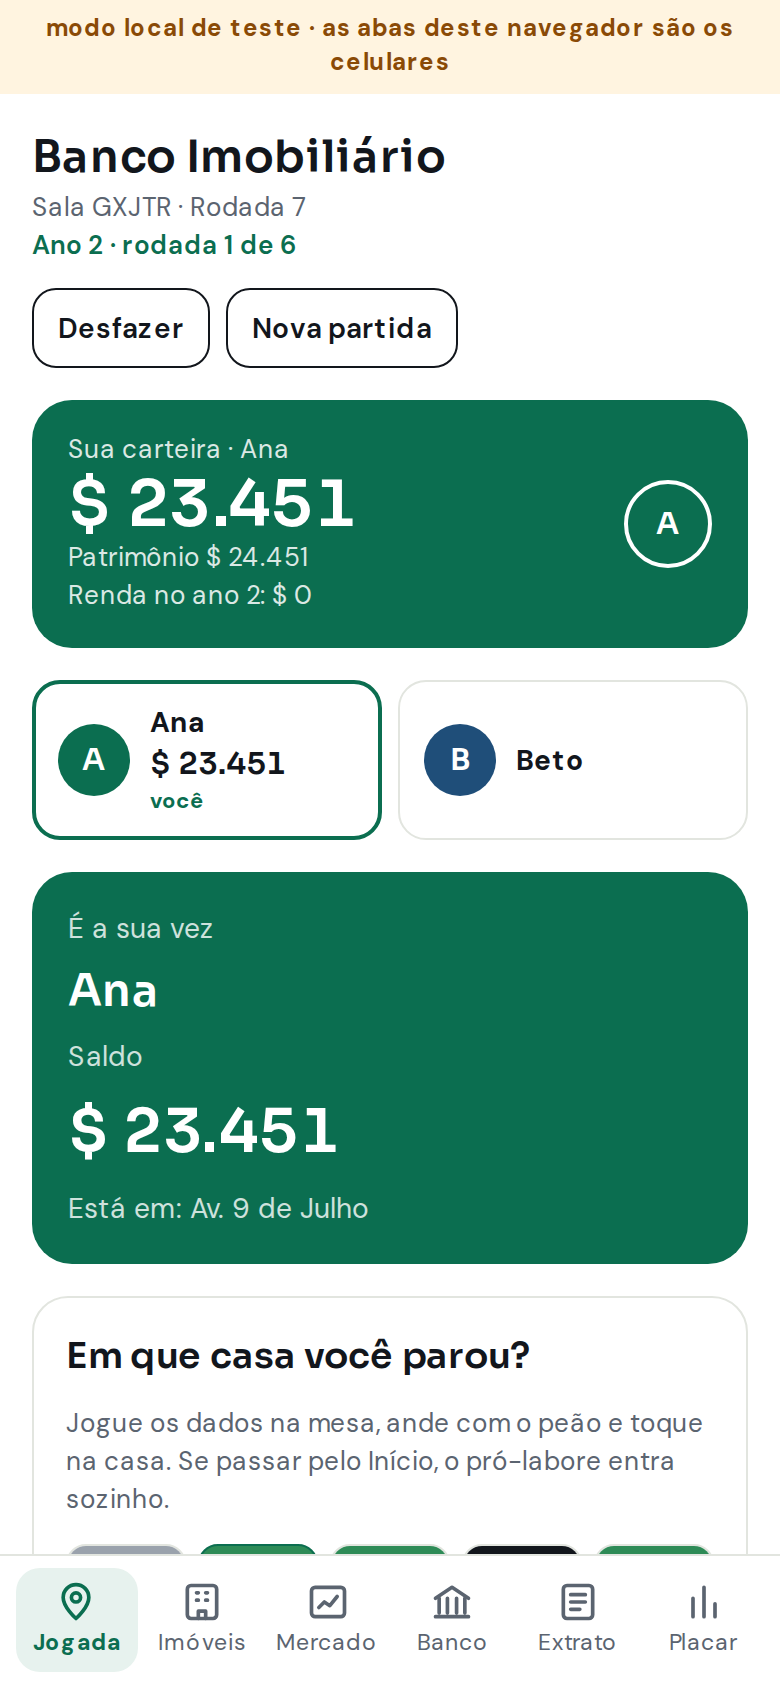
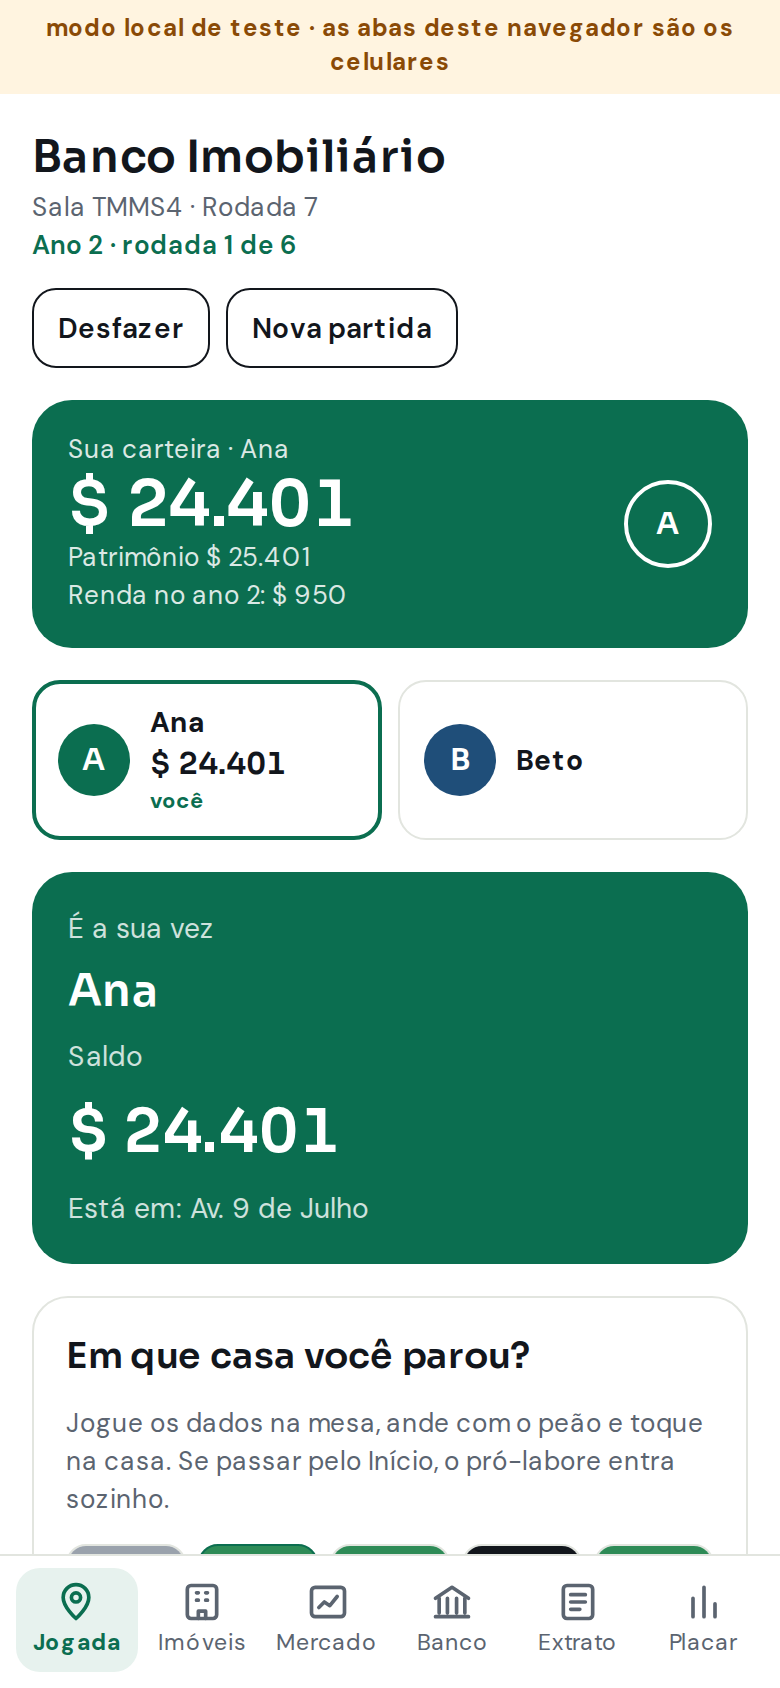
Declaração do IR sem saldo: levantar dinheiro e voltar
- Sem saldo para o IR (ou para imposto + multa da malha fina), a
  declaração oferece "Levantar dinheiro": fecha a janela e mantém a
  declaração pendente; pagar fica desativado até o saldo cobrir.
- Na Jogada, um aviso "Declaração do IR pendente: entregue antes de passar
  a vez" reabre a declaração. Estado derivado (chave por ano e malha fina),
  sem efeito.
- e2e-casas-ir-credito: Ana fica sem saldo, levanta dinheiro resgatando a
  poupança e volta para declarar; capturas ir-sem-saldo-1 e 2.

Claude-Session: https://claude.ai/code/session_017x33phUJiS169BAouLAq1A

diff --git a/components/Game.tsx b/components/Game.tsx
@@ -49,8 +49,14 @@ export function Game({ state, me, run, pushed, onPushedClose }: { state: GameSta
   const [confirmReset, setConfirmReset] = useState(false);
   /** resultado de sonegar sem cair na malha fina (imposto que deixou de pagar) */
   const [irPassed, setIrPassed] = useState<number | null>(null);
-  const irMine = state.irPending?.pid === me && !state.winner ? state.irPending : null;
+  const irPending = state.irPending?.pid === me && !state.winner ? state.irPending : null;
   const mine = findPlayer(state, me);
+  /** declaração deixada de lado para levantar dinheiro (volta sozinha se mudar o ano ou cair na malha fina) */
+  const irKey = irPending ? `${state.code}:${me}:${irPending.year}:${irPending.caught ? 'malha' : 'ir'}` : null;
+  const [irDeferred, setIrDeferred] = useState<string | null>(null);
+  const irHidden = !!irKey && irDeferred === irKey;
+  const irMine = irPending && !irHidden ? irPending : null;
+  const irShort = !!irPending && (mine?.balance ?? 0) < irPending.due;
   const cur = currentPlayer(state);
   /** ano isento que acabou de fechar: mostra a declaração uma vez neste celular */
   const lastIr = mine?.irLast;
@@ -180,6 +186,14 @@ export function Game({ state, me, run, pushed, onPushedClose }: { state: GameSta
 
         <TradeInbox ui={ui} />
 
+        {tab === 'jogada' && irHidden && irPending && (
+          <div className="banner warn ir-pending" data-testid="ir-pending-banner">
+            <span>Declaração do IR pendente: entregue antes de passar a vez.</span>
+            <button className="btn small" onClick={() => setIrDeferred(null)}>
+              Abrir a declaração
+            </button>
+          </div>
+        )}
         {tab === 'jogada' && <PlayView ui={ui} />}
         {tab === 'imoveis' && <PropsView ui={ui} />}
         {tab === 'mercado' && <MercadoView ui={ui} seg={seg} setSeg={setSeg} stock={stock} setStock={setStock} />}
@@ -225,6 +239,8 @@ export function Game({ state, me, run, pushed, onPushedClose }: { state: GameSta
       {irMine && !pixReq && !tradeWith && !receipt && !pushed && (
         <IrModal
           ir={irMine}
+          short={irShort}
+          onRaise={() => setIrDeferred(irKey)}
           onDeclare={() => setPixReq({ action: { type: 'declareIR' }, title: irMine.caught ? 'Malha fina: imposto + multa' : 'Imposto de renda' })}
           onEvade={async () => {
             const r = await run({ type: 'evadeIR' });

diff --git a/components/Modals.tsx b/components/Modals.tsx
@@ -196,9 +196,17 @@ export function ConfirmModal({ title, text, confirm, onConfirm, onCancel }: { ti
 const pctTxt = (r: number) => `${Math.round(r * 100)}%`;
 
 /** Declaração do IR do ano do calendário que fechou: declarar (paga) ou sonegar (arrisca a malha fina). */
-export function IrModal({ ir, onDeclare, onEvade }: { ir: IrPending; onDeclare: () => void; onEvade: () => Promise<void> }) {
+export function IrModal({ ir, short, onDeclare, onEvade, onRaise }: { ir: IrPending; short: boolean; onDeclare: () => void; onEvade: () => Promise<void>; onRaise: () => void }) {
   const [busy, setBusy] = useState(false);
   const base = Math.max(0, ir.income - IR.exempt);
+  const raise = short ? (
+    <>
+      <div className="banner warn">Seu saldo não cobre {money(ir.due)}. Resgate da poupança, hipoteque ou venda e volte para entregar.</div>
+      <button className="btn block" onClick={onRaise}>
+        Levantar dinheiro
+      </button>
+    </>
+  ) : null;
   if (ir.caught)
     return (
       <Sheet label="Malha fina">
@@ -212,9 +220,10 @@ export function IrModal({ ir, onDeclare, onEvade }: { ir: IrPending; onDeclare: 
             {money(ir.due)}
           </div>
         </div>
-        <button className="btn primary block" onClick={onDeclare}>
+        <button className="btn primary block" disabled={short} onClick={onDeclare}>
           Pagar {money(ir.due)}
         </button>
+        {raise}
       </Sheet>
     );
   return (
@@ -246,9 +255,10 @@ export function IrModal({ ir, onDeclare, onEvade }: { ir: IrPending; onDeclare: 
           </span>
         </div>
       </div>
-      <button className="btn primary block" disabled={busy} onClick={onDeclare}>
+      <button className="btn primary block" disabled={busy || short} onClick={onDeclare}>
         Declarar e pagar {money(ir.tax)}
       </button>
+      {raise}
       <button
         className="btn danger block"
         disabled={busy}

diff --git a/app/globals.css b/app/globals.css
@@ -139,6 +139,7 @@ h3{font-size:15px;font-weight:600}
 .banner{border-radius:14px;padding:12px 14px;font-size:14px;display:flex;gap:10px;align-items:flex-start}
 .banner.warn{background:var(--warn-soft);color:var(--warn)}
 .banner.info{background:var(--info-soft);color:var(--info)}
+.banner.ir-pending{align-items:center;justify-content:space-between;flex-wrap:wrap}
 .banner.bad{background:var(--bad-soft);color:var(--bad)}
 .group-head{display:flex;align-items:center;gap:8px;margin-top:4px}
 .dice{display:grid;grid-template-columns:repeat(6,minmax(0,1fr));gap:6px}
